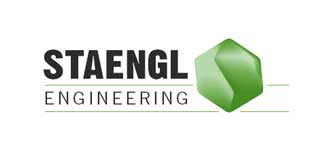
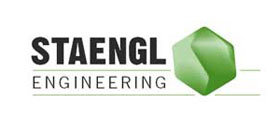
shrinking

Changed region(s): [[0.0857, 0.1832, 0.9429, 0.7328]]

diff --git a/css/app.css b/css/app.css
@@ -1055,13 +1055,13 @@ button.large, .button.large {
 /* line 60, ../../../../.rvm/gems/ruby-1.9.3-p392@staengl/gems/zurb-foundation-4.2.2/scss/foundation/components/_tooltips.scss */
 .tooltip > .nub {
   display: block;
-  left: 5px;
+  left: 0;
   position: absolute;
   width: 0;
   height: 0;
-  border: solid 5px;
+  border: solid 0;
   border-color: transparent transparent #383838 transparent;
-  top: -10px;
+  top: 0;
 }
 /* line 71, ../../../../.rvm/gems/ruby-1.9.3-p392@staengl/gems/zurb-foundation-4.2.2/scss/foundation/components/_tooltips.scss */
 .tooltip.opened {
@@ -1081,13 +1081,13 @@ button.large, .button.large {
   /* line 86, ../../../../.rvm/gems/ruby-1.9.3-p392@staengl/gems/zurb-foundation-4.2.2/scss/foundation/components/_tooltips.scss */
   .tooltip > .nub {
     border-color: transparent transparent #383838 transparent;
-    top: -10px;
+    top: 0;
   }
   /* line 90, ../../../../.rvm/gems/ruby-1.9.3-p392@staengl/gems/zurb-foundation-4.2.2/scss/foundation/components/_tooltips.scss */
   .tooltip.tip-top > .nub {
     border-color: #383838 transparent transparent transparent;
     top: auto;
-    bottom: -10px;
+    bottom: 0;
   }
   /* line 97, ../../../../.rvm/gems/ruby-1.9.3-p392@staengl/gems/zurb-foundation-4.2.2/scss/foundation/components/_tooltips.scss */
   .tooltip.tip-left, .tooltip.tip-right {
@@ -1096,18 +1096,18 @@ button.large, .button.large {
   /* line 99, ../../../../.rvm/gems/ruby-1.9.3-p392@staengl/gems/zurb-foundation-4.2.2/scss/foundation/components/_tooltips.scss */
   .tooltip.tip-left > .nub {
     border-color: transparent transparent transparent #383838;
-    right: -10px;
+    right: 0;
     left: auto;
     top: 50%;
-    margin-top: -5px;
+    margin-top: 0;
   }
   /* line 106, ../../../../.rvm/gems/ruby-1.9.3-p392@staengl/gems/zurb-foundation-4.2.2/scss/foundation/components/_tooltips.scss */
   .tooltip.tip-right > .nub {
     border-color: transparent #383838 transparent transparent;
     right: auto;
-    left: -10px;
+    left: 0;
     top: 50%;
-    margin-top: -5px;
+    margin-top: 0;
   }
 }
 /* ===========================================================
@@ -1379,39 +1379,39 @@ button.large, .button.large {
   line-height: 17px;
 }
 
-/* line 3, ../scss/_styles.scss */
+/* line 2, ../scss/_styles.scss */
 html, body {
   background-color: #f5f5f5;
   margin: 0;
   padding: 0;
 }
 
-/* line 10, ../scss/_styles.scss */
+/* line 9, ../scss/_styles.scss */
 body {
   font-family: 'Open Sans', sans-serif;
   line-height: 1.5em;
-  color: #636363;
+  color: #3d3d3d;
 }
 
-/* line 23, ../scss/_styles.scss */
+/* line 22, ../scss/_styles.scss */
 header, footer, div.innards {
   position: relative;
-  width: 1200px;
+  width: 960px;
   margin: 0 auto;
-  padding: 0 120px;
+  padding: 0 20px;
 }
 
-/* line 27, ../scss/_styles.scss */
+/* line 26, ../scss/_styles.scss */
 div.hero {
   position: relative;
-  width: 1200px;
+  width: 960px;
   margin: 0 auto;
-  padding: 0 120px;
+  padding: 0 20px;
   padding: 0;
   z-index: 0 !important;
 }
 
-/* line 37, ../scss/_styles.scss */
+/* line 36, ../scss/_styles.scss */
 .clear {
   *zoom: 1;
 }
@@ -1425,49 +1425,50 @@ div.hero {
   clear: both;
 }
 
-/* line 39, ../scss/_styles.scss */
+/* line 38, ../scss/_styles.scss */
 header {
   border-bottom: solid 1px #d9d9d9;
 }
-/* line 41, ../scss/_styles.scss */
+/* line 40, ../scss/_styles.scss */
 header .logo {
   background-image: url("../img/little-logo.png");
-  background-position: 0 28px;
+  background-position: 0 16px;
   background-repeat: no-repeat;
-  height: 116px;
+  height: 88px;
   width: 320px;
-  margin: 0;
+  margin: 0 0 0 38px;
   padding: 0;
   float: left;
   position: relative;
   z-index: 999 !important;
 }
-/* line 53, ../scss/_styles.scss */
+/* line 52, ../scss/_styles.scss */
 header .menu {
-  padding-top: 38px;
+  padding-top: 43px;
   float: left;
 }
 
-/* line 61, ../scss/_styles.scss */
+/* line 60, ../scss/_styles.scss */
 header.front-page .logo {
   background-image: none;
 }
 
-/* line 70, ../scss/_styles.scss */
+/* line 69, ../scss/_styles.scss */
 #menu-main a:link, #menu-main a:visited, #menu-main a:hover, #menu-main a:active, .titles a:link, .titles a:visited, .titles a:hover, .titles a:active, .title a:link, .title a:visited, .title a:hover, .title a:active {
-  color: #636363;
+  color: #3d3d3d;
   text-decoration: none;
 }
-/* line 74, ../scss/_styles.scss */
+/* line 73, ../scss/_styles.scss */
 #menu-main a:hover, .titles a:hover, .title a:hover {
   color: #5fa73a;
 }
 
-/* line 80, ../scss/_styles.scss */
+/* line 79, ../scss/_styles.scss */
 #menu-main {
   list-style: none;
   float: left;
   margin: 0;
+  padding: 0;
 }
 /* line 85, ../scss/_styles.scss */
 #menu-main li {
@@ -1484,7 +1485,7 @@ header.front-page .logo {
 }
 /* line 97, ../scss/_styles.scss */
 #menu-main a:link, #menu-main a:visited, #menu-main a:hover, #menu-main a:active {
-  color: #636363;
+  color: #3d3d3d;
   text-decoration: none;
 }
 /* line 101, ../scss/_styles.scss */
@@ -1529,7 +1530,7 @@ div.innards:after {
   font-size: 1.25em;
   line-height: 1.5em;
   float: left;
-  width: 320px;
+  width: 300px;
 }
 /* line 130, ../scss/_styles.scss */
 .one p, .two p, .three p {
@@ -1544,7 +1545,7 @@ div.innards:after {
 
 /* line 136, ../scss/_styles.scss */
 .titles {
-  margin-top: 150px;
+  margin-top: 60px;
 }
 /* line 138, ../scss/_styles.scss */
 .titles .one, .titles .two, .titles .three {
@@ -1635,7 +1636,7 @@ div.innards:after {
   font-size: 0.875em;
   line-height: 1.25em;
   font-weight: 300;
-  color: #636363;
+  color: #3d3d3d;
 }
 
 /* line 212, ../scss/_styles.scss */
@@ -1680,7 +1681,7 @@ div.innards:after {
 .news-item .date {
   font-size: 0.875em;
   line-height: 1.5em;
-  color: #636363;
+  color: #3d3d3d;
 }
 /* line 228, ../scss/_styles.scss */
 .news-item .title {
@@ -1719,36 +1720,36 @@ footer {
   margin-bottom: 66px;
 }
 
-/* line 267, ../scss/_styles.scss */
+/* line 266, ../scss/_styles.scss */
 .services, .company, .news {
-  margin: 123px 44px;
+  margin: 66px 44px;
 }
 
-/* line 271, ../scss/_styles.scss */
+/* line 270, ../scss/_styles.scss */
 .company {
   margin-bottom: 22px;
 }
 
-/* line 274, ../scss/_styles.scss */
+/* line 273, ../scss/_styles.scss */
 .company-links {
   margin: 0 44px 111px 44px;
   text-align: center;
 }
-/* line 277, ../scss/_styles.scss */
+/* line 276, ../scss/_styles.scss */
 .company-links img {
   margin: 11px 44px;
 }
-/* line 278, ../scss/_styles.scss */
+/* line 277, ../scss/_styles.scss */
 .company-links a {
   text-decoration: none;
 }
 
-/* line 280, ../scss/_styles.scss */
+/* line 279, ../scss/_styles.scss */
 .headshot {
   margin-top: 22px;
 }
 
-/* line 285, ../scss/_styles.scss */
+/* line 284, ../scss/_styles.scss */
 .contact {
   line-height: 1.5em;
   margin: 123px 0 188px 88px;

diff --git a/scss/_styles.scss b/scss/_styles.scss
@@ -1,5 +1,4 @@
 // actual styles for the STAENGL site
-
 html, body {
   background-color:  #f5f5f5; //rgb(245,245,245);
   // background-color: $limon;
@@ -15,9 +14,9 @@ body {
 
 @mixin container {
   position: relative;
-  width: 1200px;
+  width: 960px; //1200px;
   margin: 0 auto;
-  padding: 0 120px;
+  padding: 0 20px; //120px;
 }
 
 header, footer, div.innards {
@@ -40,18 +39,18 @@ header {
   border-bottom: solid 1px $borderline;
   .logo {
     background-image: url('../img/little-logo.png');
-    background-position: 0 28px;
+    background-position: 0 16px;
     background-repeat: no-repeat;
-    height: 116px;
+    height: 88px; //116px;
     width: 320px;
-    margin: 0;
+    margin: 0 0 0 38px;
     padding: 0;
     float: left;
     position: relative;
     z-index: 999 !important;
   }
   .menu {
-    padding-top: 38px;
+    padding-top: 43px; //38px;
     float: left;
   }
 }
@@ -82,6 +81,7 @@ header.front-page {
   // text-align: center;
   float: left;
   margin: 0;
+  padding: 0;
   li {
     float: left;
     margin-left: 30px;
@@ -126,7 +126,7 @@ div.innards {
   font-size: emCalc(20px);
   line-height: emCalc(24px);
   float: left;
-  width: 320px;
+  width: 300px; //320px;
   p { margin: 25px; }
 }
 .three {
@@ -134,7 +134,7 @@ div.innards {
   width: 317px;
 }
 .titles {
-  margin-top: 150px;
+  margin-top: 60px;
   .one, .two, .three {
     border-width: 3px;
     font-weight: 400;
@@ -263,9 +263,8 @@ footer {
   h1 { margin-bottom: 66px; }
 }
 
-
 .services, .company, .news {
-  margin:123px 44px;
+  margin:66px 44px;
 }
 
 .company {

diff --git a/scss/_settings.scss b/scss/_settings.scss
@@ -113,7 +113,7 @@ $default-float: left;
 // Grid Variables
 //
 
-$row-width: emCalc(1200px);
+$row-width: emCalc(960); //emCalc(1200px);
 $column-gutter: emCalc(30px);
 $total-columns: 12;
 
@@ -1195,7 +1195,7 @@ $tooltip-bg: scale-lightness(#000, 22%);
 // $tooltip-close-font-color: #888;
 // $tooltip-font-size-sml: emCalc(14px);
 // $tooltip-radius: $global-radius;
-// $tooltip-pip-size: 5px;
+$tooltip-pip-size: 0; //5px;
 
 //
 // Top Bar Variables

diff --git a/scss/_var.scss b/scss/_var.scss
@@ -15,7 +15,7 @@ $peachie: rgba(255, 229, 204, .44);
 =========================================================== */
 
 $footer-green: #5fa73a;
-$medium-greyish: #636363;
+$medium-greyish: darken(#636363, 15);
 $darker-greyish: #292928;
 $lighter-greyish: #adadad;
 $borderline: #d9d9d9;

diff --git a/front-page.php b/front-page.php
@@ -46,11 +46,6 @@ project-specific information for that project from its own project page) -->
       <?php while ($the_query -> have_posts()) : $the_query -> the_post(); ?>
 
         <div class="front-news-item">
-          <div class="pic">
-            <a href="<?php the_permalink() ?>">
-              <img src="<?php staengl_image('80x60.gif'); ?>">
-            </a>
-          </div>
           <div class="deets">
             <div class="title"><a href="<?php the_permalink() ?>"><?php the_title(); ?></a></div>
             <div class="date"><?php the_date('Y M d'); ?></div>
